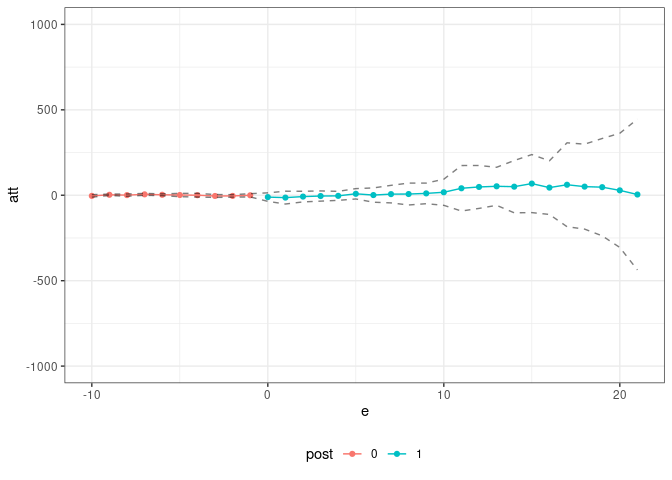
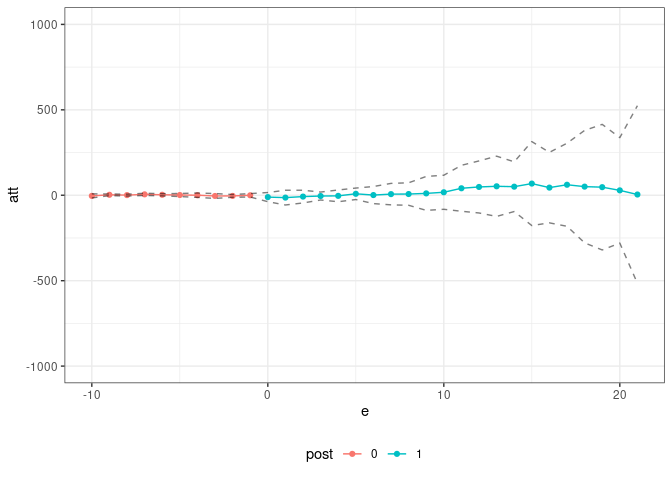
pass check

diff --git a/README.md b/README.md
@@ -91,52 +91,48 @@ res <- pte(yname="positive",
            xformla=xformla,
            max_e=21,
            min_e=-10) 
-#> Warning in compute.aggte(MP = MP, type = type, balance_e = balance_e, min_e
-#> = min_e, : Simultaneous conf. band is somehow smaller than pointwise one
-#> using normal approximation. Since this is unusual, we are reporting pointwise
-#> confidence intervals
 
 summary(res)
 #> 
 #> Overall ATT:  
 #>      ATT    Std. Error     [ 95%  Conf. Int.] 
-#>  14.8882       82.1669  -146.1561    175.9324 
+#>  14.8882       62.3559  -107.3272    137.1035 
 #> 
 #> 
 #> Dynamic Effects:
 #>  Event Time Estimate Std. Error     [95%  Conf. Band] 
-#>         -10  -3.7266     2.8916  -11.0407      3.5874 
-#>          -9   2.6607     1.5868   -1.3532      6.6745 
-#>          -8   0.8290     2.6141   -5.7834      7.4413 
-#>          -7   5.2843     2.2360   -0.3715     10.9402 
-#>          -6   2.8555     2.0496   -2.3289      8.0399 
-#>          -5   1.3589     3.8404   -8.3551     11.0729 
-#>          -4   0.3294     4.2100  -10.3198     10.9785 
-#>          -3  -4.2227     3.3890  -12.7949      4.3496 
-#>          -2  -3.8447     2.8630  -11.0866      3.3971 
-#>          -1  -0.2234     3.7521   -9.7143      9.2675 
-#>           0 -10.8156     9.8332  -35.6882     14.0570 
-#>           1 -13.7998    14.8284  -51.3076     23.7080 
-#>           2  -7.8432    12.2982  -38.9509     23.2646 
-#>           3  -4.5541    11.8074  -34.4204     25.3121 
-#>           4  -3.5368    10.4181  -29.8889     22.8153 
-#>           5   8.5221    11.9772  -21.7737     38.8179 
-#>           6   1.1140    16.5316  -40.7019     42.9299 
-#>           7   6.6384    20.3054  -44.7234     58.0002 
-#>           8   7.1288    25.3286  -56.9389     71.1965 
-#>           9  10.8758    23.8359  -49.4161     71.1677 
-#>          10  17.5057    30.2247  -58.9464     93.9578 
-#>          11  40.8318    52.6357  -92.3080    173.9716 
-#>          12  48.6134    49.6534  -76.9830    174.2097 
-#>          13  52.4228    44.0121  -58.9040    163.7496 
-#>          14  50.2000    60.4837 -102.7911    203.1912 
-#>          15  68.2960    67.1395 -101.5307    238.1227 
-#>          16  44.7305    62.0768 -112.2902    201.7512 
-#>          17  61.4670    97.0579 -184.0371    306.9710 
-#>          18  50.4635    98.2750 -198.1191    299.0461 
-#>          19  47.3392   112.6413 -237.5823    332.2607 
-#>          20  28.6326   132.1554 -305.6490    362.9142 
-#>          21   4.3445   174.4827 -437.0022    445.6913 
+#>         -10  -3.7266     4.1438  -15.6623      8.2090 
+#>          -9   2.6607     1.6598   -2.1202      7.4416 
+#>          -8   0.8290     1.8678   -4.5510      6.2089 
+#>          -7   5.2843     2.2360   -1.1562     11.7249 
+#>          -6   2.8555     2.2317   -3.5726      9.2836 
+#>          -5   1.3589     3.0987   -7.5663     10.2841 
+#>          -4   0.3294     4.4509  -12.4908     13.1495 
+#>          -3  -4.2227     4.9524  -18.4873     10.0420 
+#>          -2  -3.8447     2.7785  -11.8477      4.1582 
+#>          -1  -0.2234     3.4595  -10.1879      9.7411 
+#>           0 -10.8156     9.3003  -37.6037     15.9724 
+#>           1 -13.7998    14.9859  -56.9641     29.3645 
+#>           2  -7.8432    12.9193  -45.0550     29.3686 
+#>           3  -4.5541     8.0687  -27.7947     18.6864 
+#>           4  -3.5368    11.9346  -37.9125     30.8389 
+#>           5   8.5221    11.6450  -25.0194     42.0636 
+#>           6   1.1140    17.3483  -48.8549     51.0829 
+#>           7   6.6384    21.7908  -56.1264     69.4033 
+#>           8   7.1288    22.8506  -58.6886     72.9462 
+#>           9  10.8758    34.4597  -88.3798    110.1314 
+#>          10  17.5057    34.6000  -82.1537    117.1651 
+#>          11  40.8318    46.6711  -93.5965    175.2601 
+#>          12  48.6134    52.8799 -103.6984    200.9251 
+#>          13  52.4228    61.2122 -123.8889    228.7345 
+#>          14  50.2000    50.5074  -95.2782    195.6783 
+#>          15  68.2960    85.2968 -177.3873    313.9793 
+#>          16  44.7305    71.6228 -161.5671    251.0281 
+#>          17  61.4670    84.4064 -181.6516    304.5855 
+#>          18  50.4635   114.2564 -278.6330    379.5600 
+#>          19  47.3392   127.5906 -320.1643    414.8427 
+#>          20  28.6326   107.1552 -280.0101    337.2754 
+#>          21   4.3445   180.4437 -515.3937    524.0827 
 #> ---
 #> Signif. codes: `*' confidence band does not cover 0
 ```
@@ -175,48 +171,52 @@ oo_res <- pte(yname="retail_and_recreation_percent_change_from_baseline",
            min_e=-10,
            Iname="current",
            adjustI=TRUE) 
+#> Warning in compute.aggte(MP = MP, type = type, balance_e = balance_e, min_e
+#> = min_e, : Simultaneous conf. band is somehow smaller than pointwise one
+#> using normal approximation. Since this is unusual, we are reporting pointwise
+#> confidence intervals
 
 summary(oo_res)
 #> 
 #> Overall ATT:  
 #>      ATT    Std. Error     [ 95%  Conf. Int.]  
-#>  -3.9162         1.769    -7.3834      -0.449 *
+#>  -3.9162        1.8308    -7.5045      -0.328 *
 #> 
 #> 
 #> Dynamic Effects:
 #>  Event Time Estimate Std. Error    [95%  Conf. Band]  
-#>         -10  -3.0210     2.0069  -8.7902      2.7482  
-#>          -9   2.7846     2.0530  -3.1170      8.6862  
-#>          -8   0.2543     1.4475  -3.9067      4.4154  
-#>          -7  -1.2765     1.2144  -4.7675      2.2145  
-#>          -6  -0.9085     1.1143  -4.1117      2.2947  
-#>          -5  -0.6359     1.5331  -5.0430      3.7712  
-#>          -4   1.6184     1.3782  -2.3433      5.5802  
-#>          -3  -0.4660     1.1466  -3.7618      2.8299  
-#>          -2   0.7693     0.9005  -1.8193      3.3579  
-#>          -1   0.2643     1.1262  -2.9730      3.5016  
-#>           0  -0.8510     2.4046  -7.7633      6.0613  
-#>           1  -5.5461     2.1728 -11.7919      0.6997  
-#>           2  -6.5928     1.4146 -10.6592     -2.5265 *
-#>           3  -6.7447     1.4981 -11.0511     -2.4384 *
-#>           4  -7.2925     2.0615 -13.2186     -1.3664 *
-#>           5  -3.6784     2.5642 -11.0495      3.6927  
-#>           6  -4.9731     1.7018  -9.8651     -0.0811 *
-#>           7  -4.0683     1.8138  -9.2822      1.1456  
-#>           8  -6.1649     1.8057 -11.3554     -0.9743 *
-#>           9  -5.9830     1.8156 -11.2020     -0.7640 *
-#>          10  -1.4185     1.7742  -6.5186      3.6816  
-#>          11  -2.4974     1.5583  -6.9769      1.9821  
-#>          12  -1.9884     1.4886  -6.2675      2.2907  
-#>          13  -3.3056     1.6400  -8.0200      1.4089  
-#>          14  -2.4633     1.9545  -8.0817      3.1551  
-#>          15  -3.8627     2.3505 -10.6195      2.8941  
-#>          16  -3.3849     1.7904  -8.5316      1.7617  
-#>          17  -2.1404     1.9167  -7.6502      3.3695  
-#>          18  -6.1309     1.3901 -10.1269     -2.1349 *
-#>          19  -0.7883     2.3503  -7.5445      5.9679  
-#>          20   0.6190     3.3738  -9.0794     10.3175  
-#>          21  -5.0789     2.7749 -13.0556      2.8977  
+#>         -10  -3.0210     2.4636 -10.5547      4.5127  
+#>          -9   2.7846     1.7463  -2.5557      8.1249  
+#>          -8   0.2543     1.4148  -4.0722      4.5809  
+#>          -7  -1.2765     1.0040  -4.3467      1.7937  
+#>          -6  -0.9085     1.0752  -4.1965      2.3795  
+#>          -5  -0.6359     1.4659  -5.1186      3.8468  
+#>          -4   1.6184     1.0121  -1.4767      4.7135  
+#>          -3  -0.4660     1.1486  -3.9784      3.0465  
+#>          -2   0.7693     1.0473  -2.4333      3.9720  
+#>          -1   0.2643     1.2045  -3.4190      3.9476  
+#>           0  -0.8510     2.4843  -8.4483      6.7462  
+#>           1  -5.5461     1.8891 -11.3230      0.2308  
+#>           2  -6.5928     1.6249 -11.5617     -1.6239 *
+#>           3  -6.7447     1.9919 -12.8360     -0.6535 *
+#>           4  -7.2925     1.8490 -12.9467     -1.6383 *
+#>           5  -3.6784     2.8741 -12.4675      5.1107  
+#>           6  -4.9731     2.0622 -11.2794      1.3332  
+#>           7  -4.0683     2.2348 -10.9023      2.7657  
+#>           8  -6.1649     1.4898 -10.7208     -1.6090 *
+#>           9  -5.9830     1.9711 -12.0108      0.0448  
+#>          10  -1.4185     2.2347  -8.2524      5.4154  
+#>          11  -2.4974     2.1715  -9.1379      4.1431  
+#>          12  -1.9884     1.5368  -6.6880      2.7111  
+#>          13  -3.3056     2.1864  -9.9917      3.3806  
+#>          14  -2.4633     1.8998  -8.2730      3.3464  
+#>          15  -3.8627     1.9105  -9.7050      1.9797  
+#>          16  -3.3849     1.8051  -8.9050      2.1352  
+#>          17  -2.1404     2.1371  -8.6758      4.3950  
+#>          18  -6.1309     1.7045 -11.3434     -0.9184 *
+#>          19  -0.7883     2.3134  -7.8628      6.2862  
+#>          20   0.6190     2.9215  -8.3151      9.5532  
+#>          21  -5.0789     3.1757 -14.7903      4.6324  
 #> ---
 #> Signif. codes: `*' confidence band does not cover 0
 
